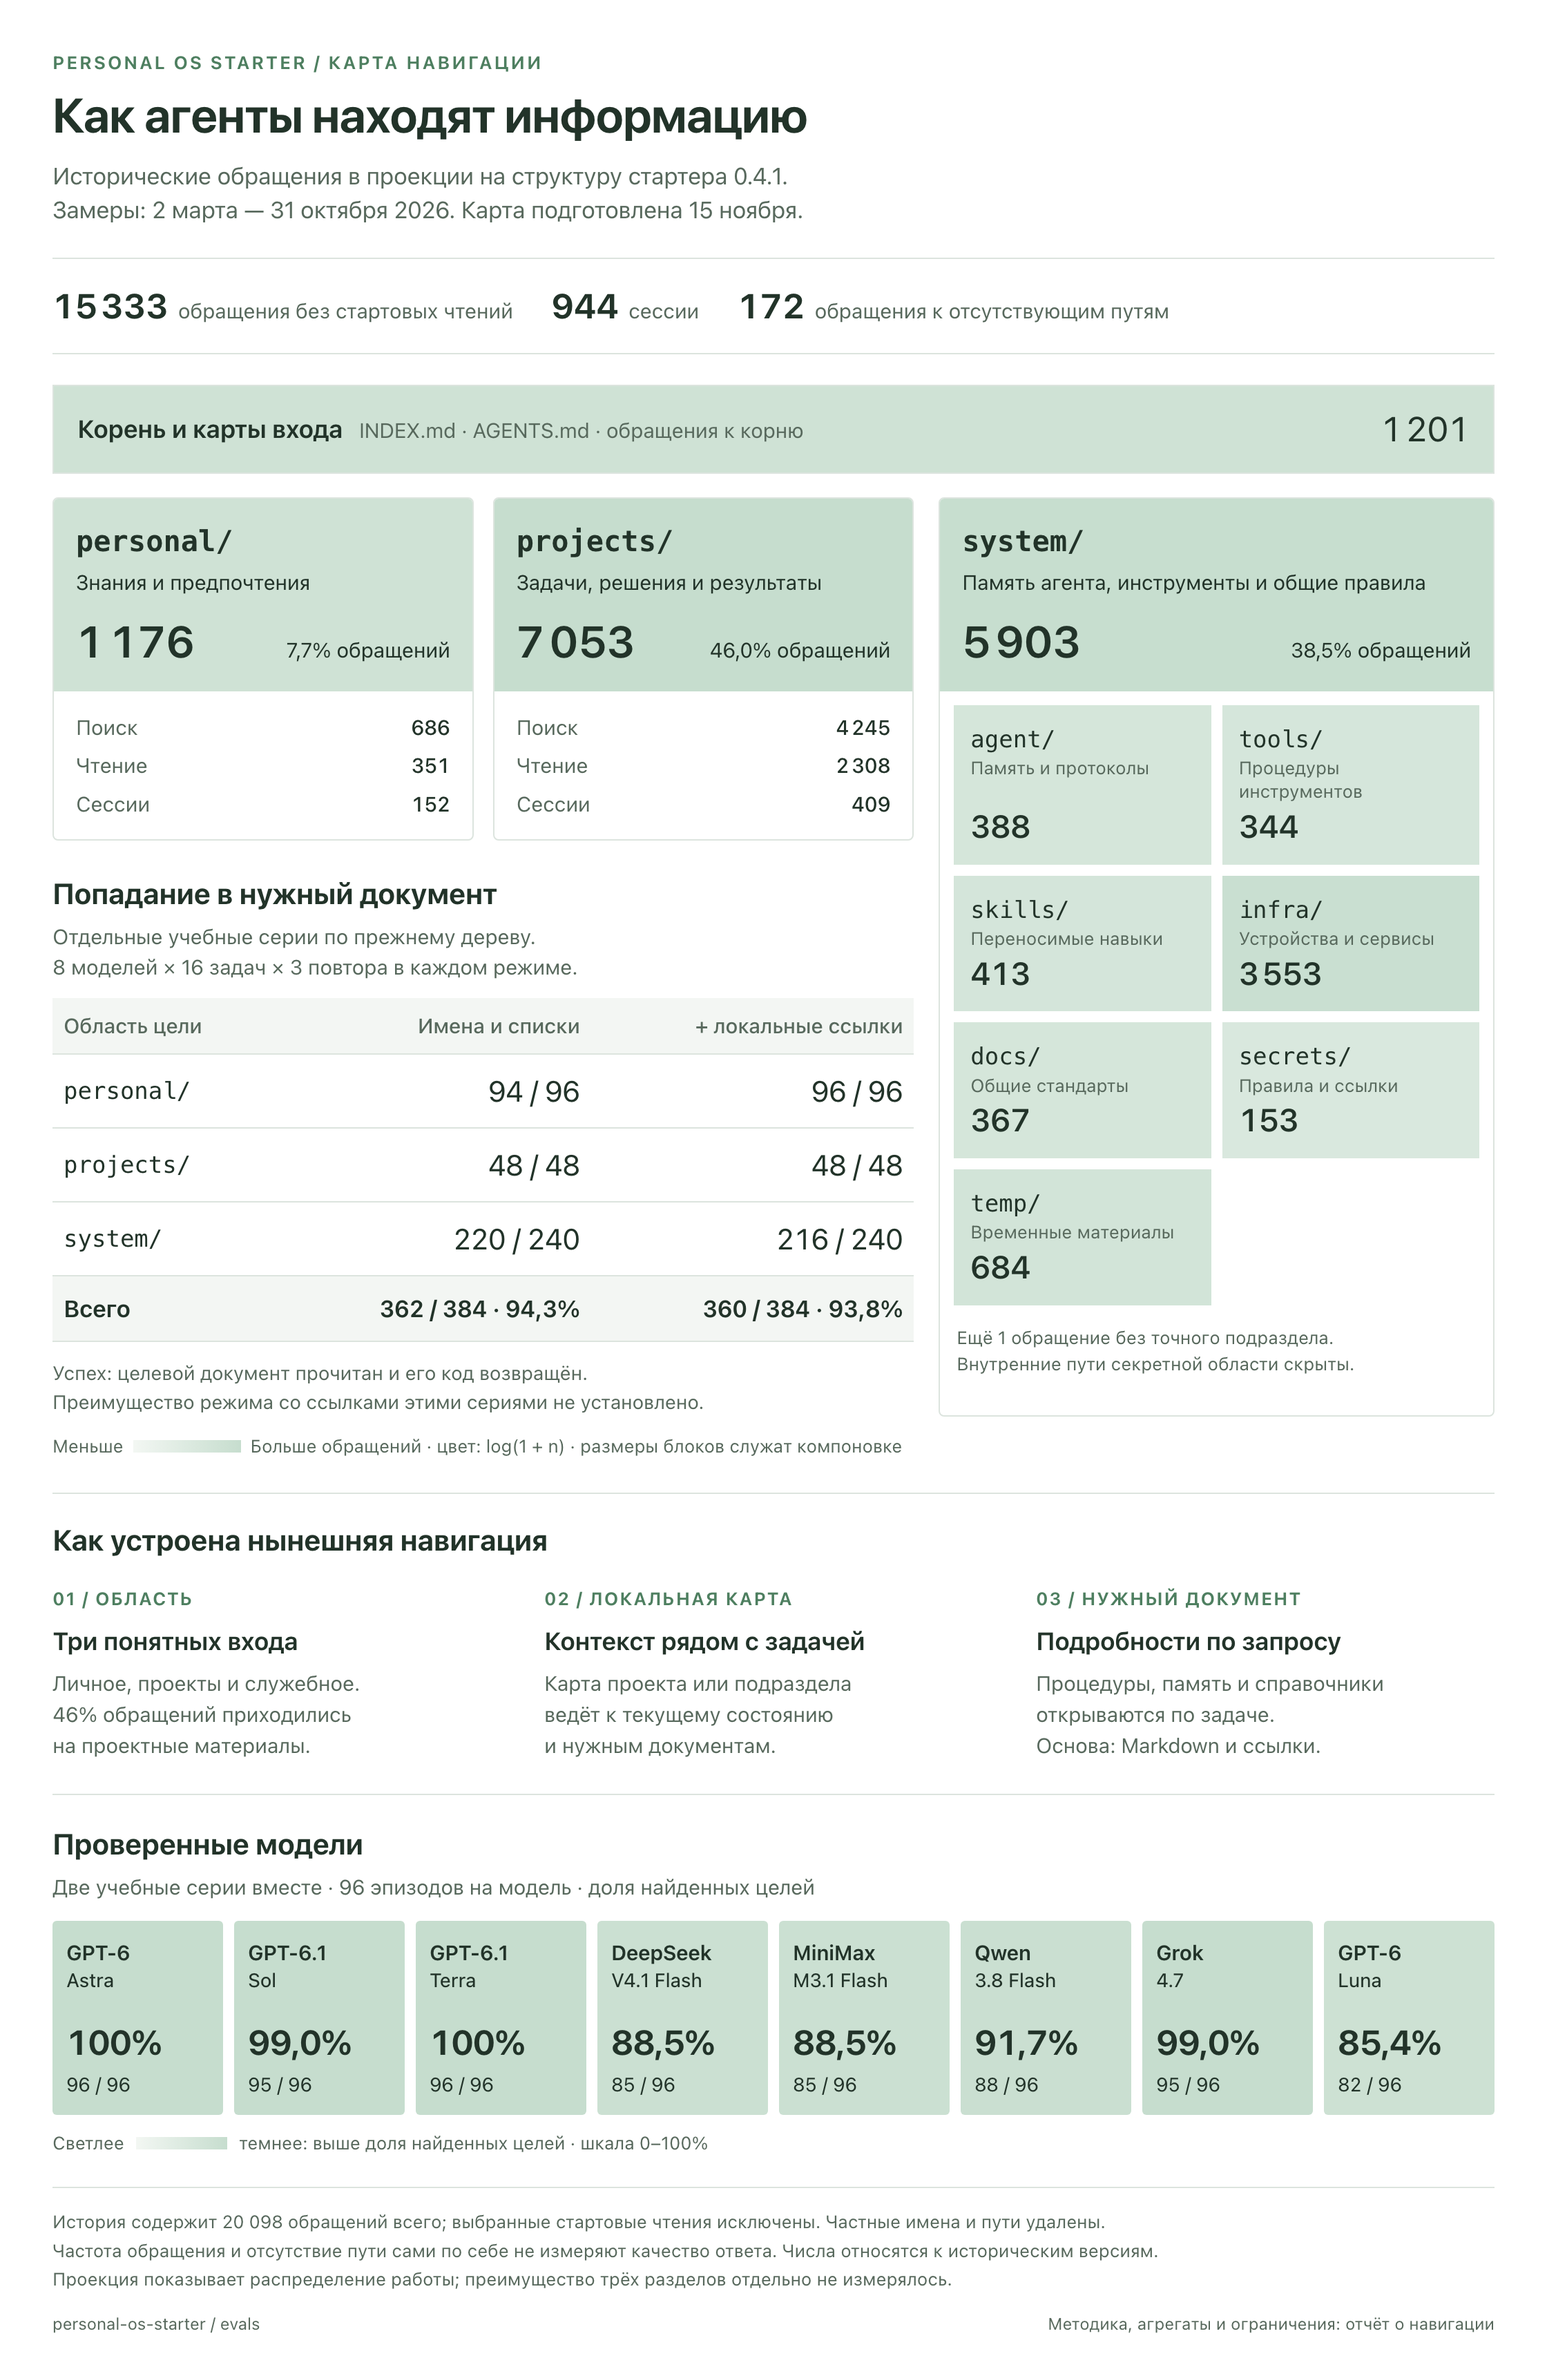
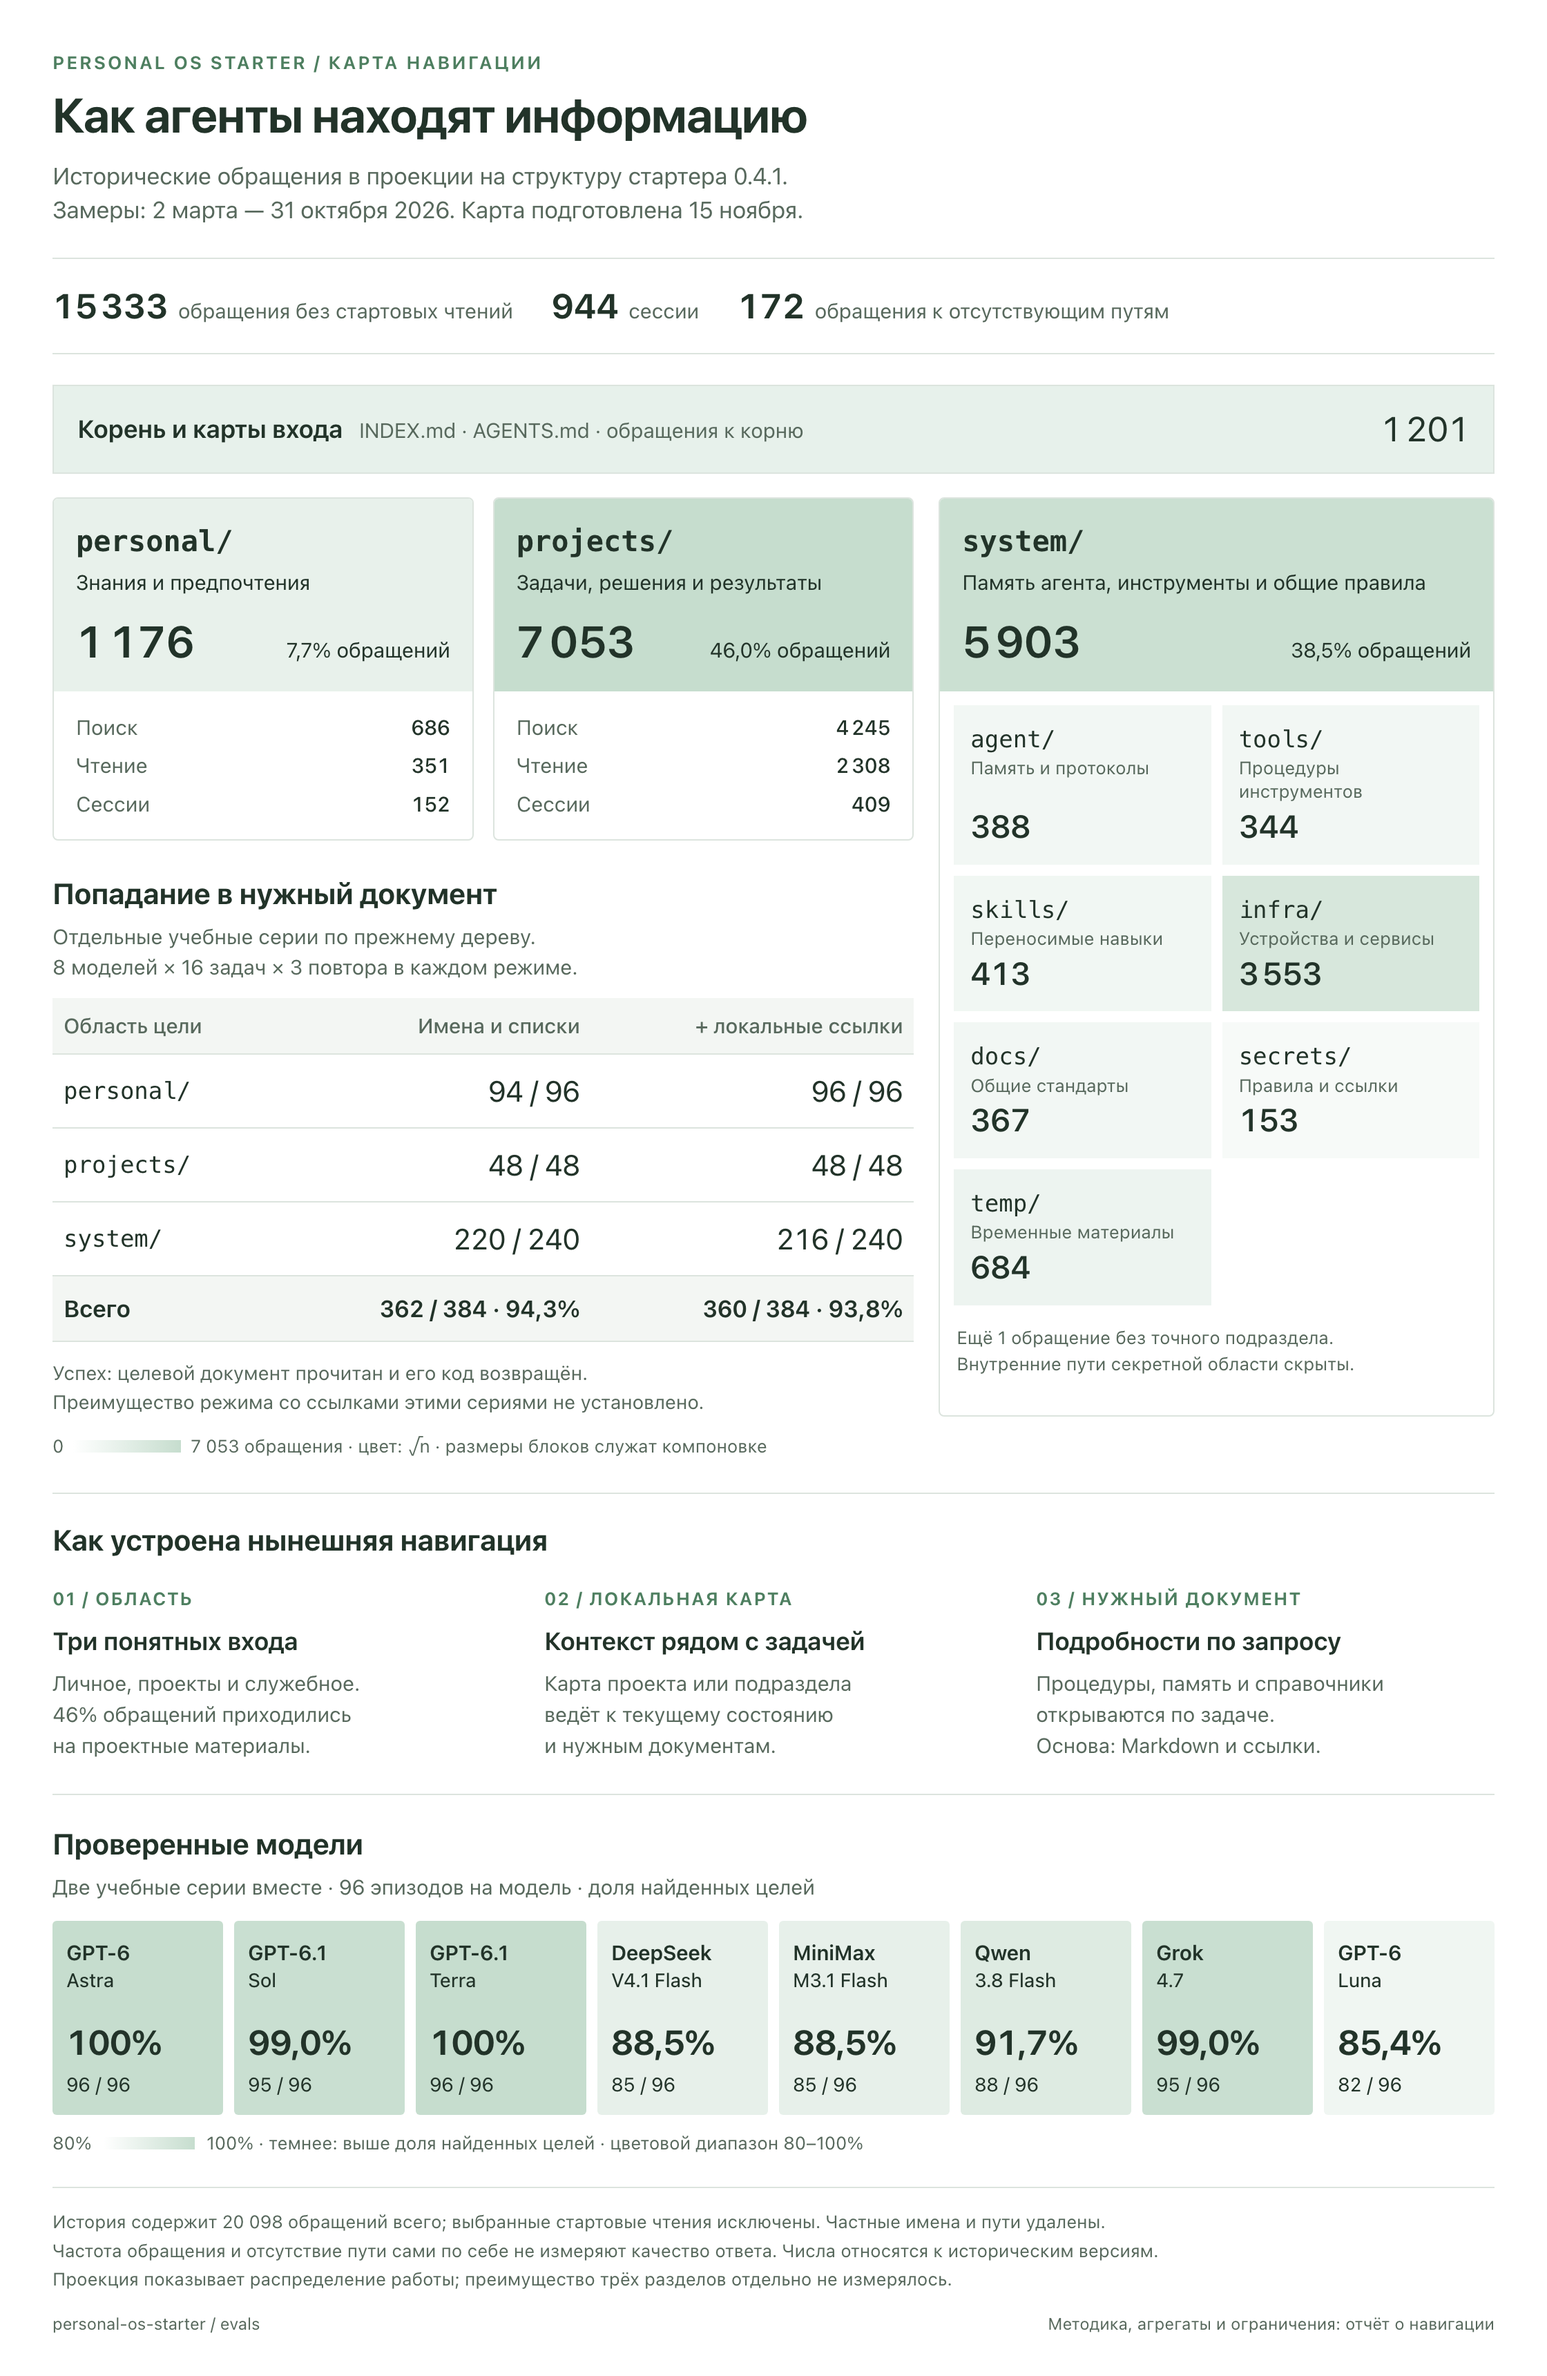
Restore visible contrast in navigation heatmaps

diff --git a/evals/reports/2026-11-15-navigation.md b/evals/reports/2026-11-15-navigation.md
@@ -53,8 +53,9 @@ bootstrap, identity, памяти и предпочтениям; это приб
 Единица обращения: уникальное сочетание инструментального вызова, операции
 и нормализованного пути. Родитель включает обращения к своим подразделам.
 Сессии пересекаются между областями, поэтому их счётчики не складываются.
-На картинке цвет соответствует `log(1 + n)`; площадь блока служит компоновке.
-Карта и плитки моделей используют общий светлый зелёный диапазон:
+На картинке интенсивность цвета соответствует `√(n / 7053)`;
+площадь блока служит компоновке. Шкала карты охватывает 0–7 053 обращения.
+Карта и плитки моделей используют общий диапазон от белого до светлого зелёного:
 максимум обращений и 100% найденных целей имеют одинаковый оттенок.
 Значения нормированы отдельно для каждой метрики; подписи сохраняют их единицы.
 
@@ -123,7 +124,9 @@ bootstrap, identity, памяти и предпочтениям; это приб
 
 Плитки на картинке суммируют обе серии: 48 + 48 эпизодов на модель.
 Процент равен числу успешных эпизодов, делённому на 96; округление до десятых.
-Заливка линейно темнеет по шкале 0–100%. Это описательная сводка попадания
+Заливка линейно темнеет в подписанном диапазоне **80–100%**.
+Так небольшие различия результатов видны при светлом максимальном оттенке.
+Это описательная сводка попадания
 в целевой документ в этих условиях. Порядок моделей сохранён из исследования.
 
 Модели работали по виртуальному протоколу со списком файлов, чтением
